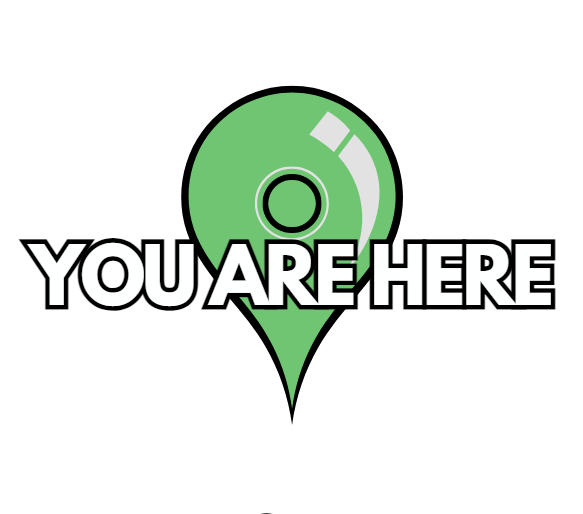
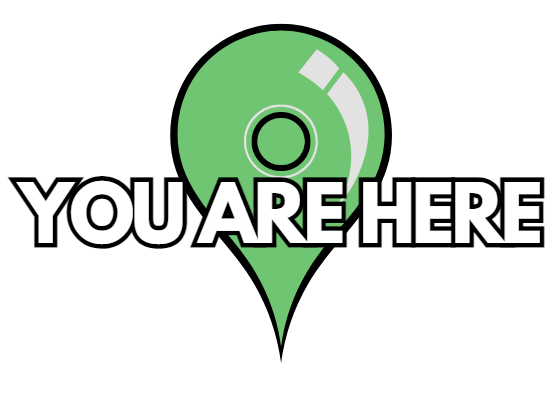
more css

Changed region(s): [[0.0, 0.0311, 0.9749, 0.8708], [0.4265, 0.9952, 0.4875, 1.0]]

diff --git a/components/Map.js b/components/Map.js
@@ -157,14 +157,14 @@ export default function Map() {
   const [showroute, setshowroute] = useState(false);
 
   if (!isLoaded) return <div>Loading...</div>;
-  let iconMarker = new google.maps.MarkerImage('/water-pin.png', null, null, null, new google.maps.Size(60, 50));
+  let iconMarker = new google.maps.MarkerImage('/water-pin.png', null, null, null, new google.maps.Size(50, 50));
 
   let iconSelectedMarker = new google.maps.MarkerImage(
     '/selected-pin.png',
     null,
     null,
     null,
-    new google.maps.Size(85, 75)
+    new google.maps.Size(75, 75)
   );
 
   let iconCurrentPosition = new google.maps.MarkerImage(
@@ -172,7 +172,7 @@ export default function Map() {
     null,
     null,
     null,
-    new google.maps.Size(100, 85)
+    new google.maps.Size(120, 90)
   );
   const formatTimestamp = timestamp => {
     if (timestamp instanceof Date) {
@@ -211,18 +211,21 @@ export default function Map() {
       >
         <Paper
           style={{
+            display: 'flex',
+            flexDirection: 'column',
             flex: 10,
             margin: '20px',
+            height: 'calc(100vh - 134px)',
             marginLeft: '0px',
             paddingTop: '20px',
             marginTop: '0px',
             padding: '20px',
-            width: '400px',
           }}
         >
           <ToggleButton
             value="Add Marker"
             color="primary"
+            sx={{ width: '300px' }}
             selected={adding}
             onChange={() => {
               setAdding(!adding);
@@ -231,7 +234,7 @@ export default function Map() {
           >
             <Typography>Add Marker</Typography>
           </ToggleButton>
-          <FormGroup>
+          <FormGroup sx={{ mb: '20px' }}>
             <FormControlLabel
               control={<Switch checked={pin_fr} onChange={e => setpin_fr(e.target.checked)} />}
               label="Markers from Following"
@@ -276,7 +279,7 @@ export default function Map() {
               >
                 <Typography>Find Route</Typography>
               </Button>
-              <Typography variant="h6" component="div" sx={{ flexGrow: 1, marginTop: '20px' }}>
+              <Typography variant="h6" component="div" sx={{ width: '250px', marginTop: '20px' }}>
                 Marker by{' '}
                 {users.find(user => user.id === markerlist.find(m => m.id === selectedMarker).poster).name ?? 'no name'}
               </Typography>
@@ -327,7 +330,13 @@ export default function Map() {
               <Typography variant="h6" component="div" sx={{ flexGrow: 1, marginTop: '20px' }}>
                 Reviews:
               </Typography>
-              <List sx={{ height: 'calc(100vh - 378pt)', overflow: 'auto' }}>
+              <List
+                sx={{
+                  height: showroute ? 'calc(100vh - 556px)' : 'calc(100vh - 520px)',
+                  width: '100%',
+                  overflow: 'auto',
+                }}
+              >
                 {(!review_fr
                   ? reviews
                   : reviews.filter(r => friendlist.includes(r.poster.id) || r.poster.id === auth.currentUser.uid)
@@ -348,6 +357,7 @@ export default function Map() {
                         borderRadius: 1,
                         p: 1,
                         minWidth: 250,
+                        marginRight: '10px',
                       }}
                     />
                   ))}

diff --git a/components/Profile.js b/components/Profile.js
@@ -313,7 +313,9 @@ export default function Profile() {
                   entry.userId == auth.currentUser.uid
                     ? 'You'
                     : users.find(user => user.id == entry.userId)?.name ?? 'unknown'
-                } drank ${entry.amount} oz at ${entry.timestamp?.toDate().toLocaleTimeString('en-US') ?? 'loading'}`}
+                } drank ${entry.amount} oz 💦💦 at ${
+                  entry.timestamp?.toDate().toLocaleTimeString('en-US') ?? 'loading'
+                }`}
               />
             ))}
           </List>
